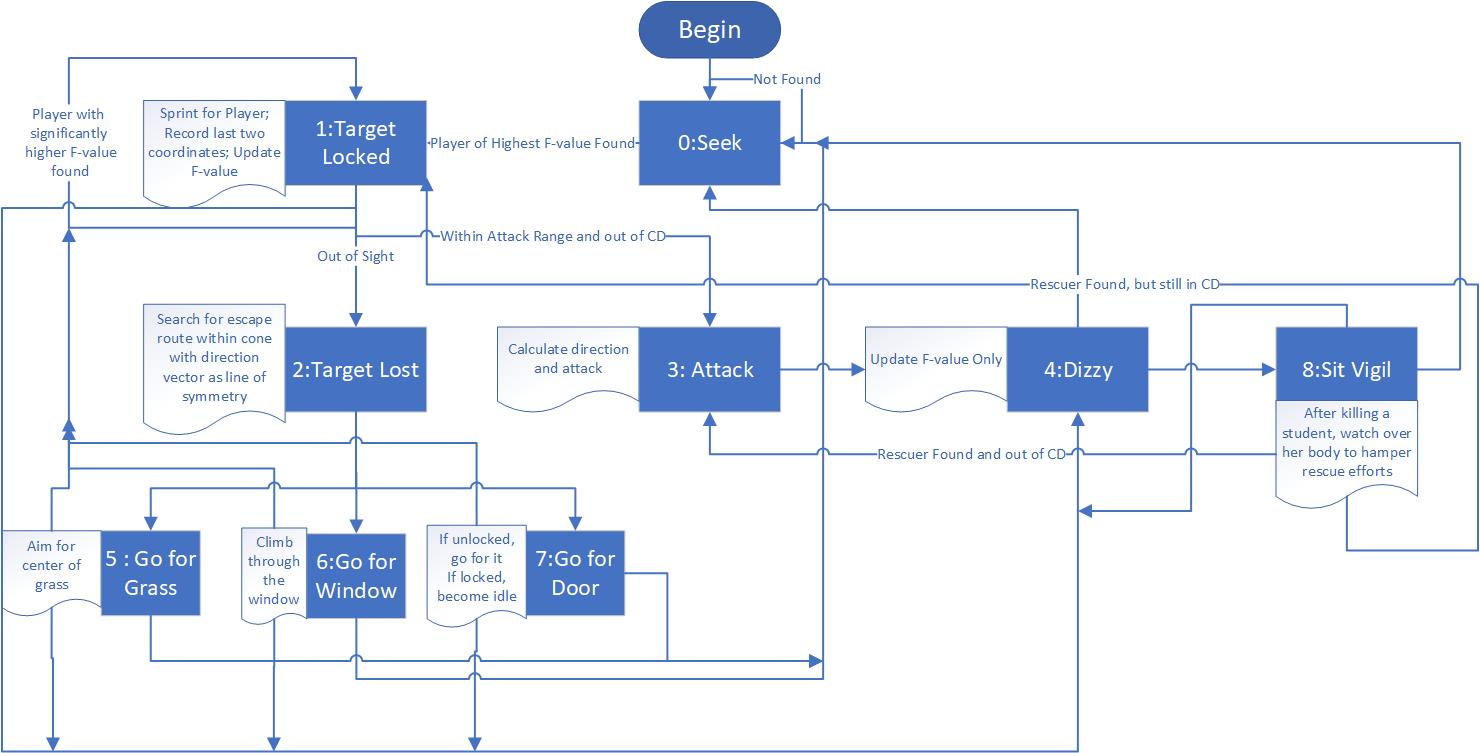
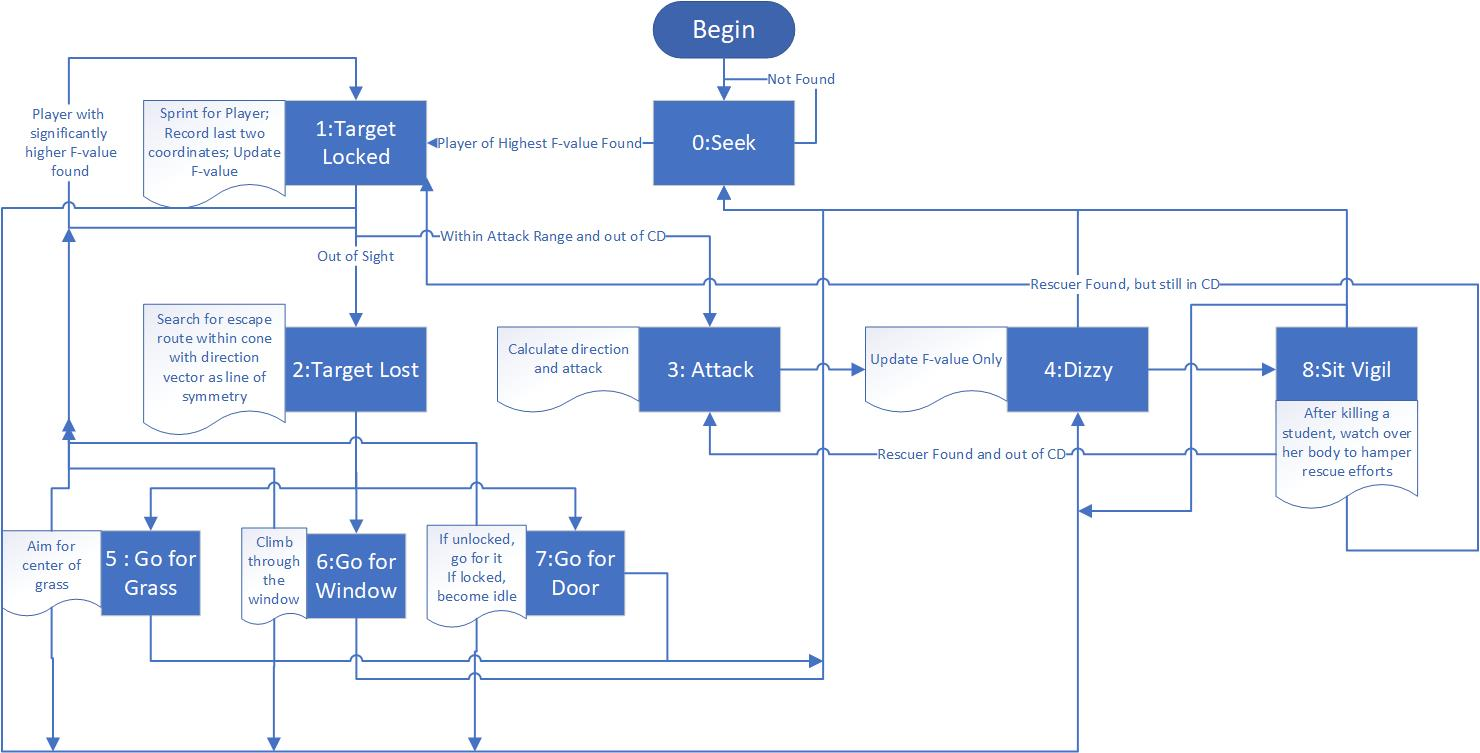
chore: Update Tricker's attack logic so that it focuses on the Student with highest F-value

diff --git a/AI.cpp b/AI.cpp
@@ -848,38 +848,33 @@ XYSquare FindStudent()
 bool TryToAttack(ITrickerAPI& api, short maxstudent)
 {
     int attackrange = int((selfInfo->bulletType == THUAI6::BulletType::CommonAttackOfTricker) ? Constants::CommonAttackOfTricker::BulletAttackRange : Constants::FlyingKnife::BulletAttackRange);
-    if (api.GetStudents().size() > 0)
+    int xx = Trickers_Students[maxstudent].GetLatestCooridinates().x, yy = Trickers_Students[maxstudent].GetLatestCooridinates().y;
+    THUAI6::PlaceType aimed = oriMap[SquareToCell(GridToSquare(Trickers_Students[maxstudent].GetLatestCooridinates())).x]
+                                    [SquareToCell(GridToSquare(Trickers_Students[maxstudent].GetLatestCooridinates())).y];
+    if ((Trickers_Students[maxstudent].playerstate != THUAI6::PlayerState::Addicted && Trickers_Students[maxstudent].playerstate != THUAI6::PlayerState::Roused) && (aimed == THUAI6::PlaceType::Grass || aimed == THUAI6::PlaceType::Land))
     {
-        for (int i = 0; i < api.GetStudents().size(); ++i)
-            if (api.GetStudents()[i]->playerState != THUAI6::PlayerState::Addicted && api.GetStudents()[i]->playerState != THUAI6::PlayerState::Roused)
+        if (selfInfo->timeUntilSkillAvailable[0] == 0)
+            api.UseSkill(0);
+        XYGrid TrickerToStudent(xx - selfInfo->x, yy - selfInfo->y);
+        if (dist(TrickerToStudent) + 1 < attackrange)
+        {
+            api.Attack(atan2(TrickerToStudent.y, TrickerToStudent.x));
+            return true;
+        }
+        else
+        {
+            if (selfInfo->timeUntilSkillAvailable[1] == 0)
             {
-                if (selfInfo->timeUntilSkillAvailable[0] == 0)
-                    api.UseSkill(0);
-                std::shared_ptr<const THUAI6::Student> st = api.GetStudents()[i];
-                if (DistanceUP(st->x, st->y) < attackrange)
-                {
-                    api.Attack(atan2(st->y - selfInfo->y, st->x - selfInfo->x));
-                    return true;
-                }
-                else
-                {
-                    if (selfInfo->timeUntilSkillAvailable[1] == 0)
-                    {
-                        api.UseSkill(1);
-                        api.Attack(atan2(st->y - selfInfo->y, st->x - selfInfo->x));
-                        return true;
-                    }
-                    else
-                        Move(api, FindMoveNext(FindNearInCell(numGridToXYCell(st->x, st->y))));
-                }
+                api.UseSkill(1);
+                api.Attack(atan2(TrickerToStudent.y, TrickerToStudent.x));
                 return true;
             }
-        return false;
+            else
+                return false;
+        }
     }
-    else
-        return false;
+    return false;
 }
-// FUNCTIONS TO ACCOMPLISH
 
 inline double dist(const XYGrid& vec)
 {
